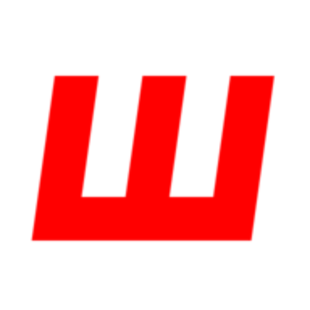
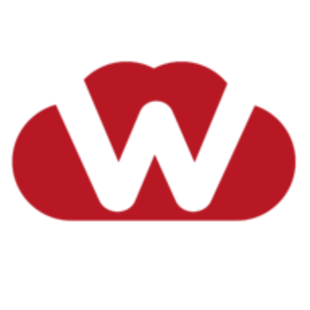
Nueva imágen

diff --git a/public/css/css.css b/public/css/css.css
@@ -5,21 +5,19 @@ body{
 h1, h2,h3,h4,h5,h6{
     font-weight: 300 !important;
 }
-.azul{
-    background-color: #3f51b5;
+.wetrust{
+    background-color: rgb(183,25,35);
+    color:white;
 }
-nav.azul{
+.wetrust a {
+    color:white;
+}
+nav.sombra{
     box-shadow: 0 3px 5px -1px rgba(0,0,0,.2),0 6px 10px 0 rgba(0,0,0,.14),0 1px 18px 0 rgba(0,0,0,.12);
-}
-.multicolor{
-    background-color: #3f51b5;
-    padding-top: 2rem;
-    padding-bottom: 2rem;
 }
 .minimo{
     min-height:79vh;
 }
-
 footer{
     background-color: #303030;
     color: gray;

diff --git a/application/view/_templates/header.php b/application/view/_templates/header.php
@@ -1,14 +1,16 @@
 <!doctype html>
 <html lang="es">
 <head>
-    <title>Simple | <?= $this->title; ?></title>
     <meta charset="utf-8">
+    <title>Simple | <?= $this->title; ?></title>
     <meta name="viewport" content="width=device-width, initial-scale=1, shrink-to-fit=no">
     <link href="https://fonts.googleapis.com/css?family=Roboto:300,400,500,700|Roboto+Mono:300&amp;display=swap" rel="stylesheet">
     <link rel="stylesheet" href="https://stackpath.bootstrapcdn.com/bootstrap/4.5.0/css/bootstrap.min.css" integrity="sha384-9aIt2nRpC12Uk9gS9baDl411NQApFmC26EwAOH8WgZl5MYYxFfc+NcPb1dKGj7Sk" crossorigin="anonymous">
-    <link href="https://fonts.googleapis.com/icon?family=Material+Icons&amp;display=block" rel="stylesheet">
     <base href="<?php echo Config::get('URL'); ?>" target="_self">
     <link rel="stylesheet" href="css/css.css">
+    <script src="https://code.jquery.com/jquery-3.5.1.slim.min.js" integrity="sha384-DfXdz2htPH0lsSSs5nCTpuj/zy4C+OGpamoFVy38MVBnE+IbbVYUew+OrCXaRkfj" crossorigin="anonymous"></script>
+    <script src="https://cdn.jsdelivr.net/npm/popper.js@1.16.0/dist/umd/popper.min.js" integrity="sha384-Q6E9RHvbIyZFJoft+2mJbHaEWldlvI9IOYy5n3zV9zzTtmI3UksdQRVvoxMfooAo" crossorigin="anonymous"></script>
+    <script src="https://stackpath.bootstrapcdn.com/bootstrap/4.5.0/js/bootstrap.min.js" integrity="sha384-OgVRvuATP1z7JjHLkuOU7Xw704+h835Lr+6QL9UvYjZE3Ipu6Tp75j7Bh/kR0JKI" crossorigin="anonymous"></script>
     <link rel="apple-touch-icon" sizes="57x57" href="images/apple-icon-57x57.png">
     <link rel="apple-touch-icon" sizes="60x60" href="images/apple-icon-60x60.png">
     <link rel="apple-touch-icon" sizes="72x72" href="images/apple-icon-72x72.png">
@@ -22,19 +24,26 @@
     <link rel="icon" type="image/png" sizes="32x32" href="images/favicon-32x32.png">
     <link rel="icon" type="image/png" sizes="96x96" href="images/favicon-96x96.png">
     <link rel="icon" type="image/png" sizes="16x16" href="images/favicon-16x16.png">
-    <link rel="manifest" href="/manifest.json">
-    <meta name="msapplication-TileColor" content="#ffffff">
+    <link rel="manifest" href="manifest.json">
+    <meta name="msapplication-TileColor" content="#b71923">
     <meta name="msapplication-TileImage" content="images/ms-icon-144x144.png">
-    <meta name="theme-color" content="#ffffff">
-    <script src="https://code.jquery.com/jquery-3.5.1.slim.min.js" integrity="sha384-DfXdz2htPH0lsSSs5nCTpuj/zy4C+OGpamoFVy38MVBnE+IbbVYUew+OrCXaRkfj" crossorigin="anonymous"></script>
-    <script src="https://cdn.jsdelivr.net/npm/popper.js@1.16.0/dist/umd/popper.min.js" integrity="sha384-Q6E9RHvbIyZFJoft+2mJbHaEWldlvI9IOYy5n3zV9zzTtmI3UksdQRVvoxMfooAo" crossorigin="anonymous"></script>
-    <script src="https://stackpath.bootstrapcdn.com/bootstrap/4.5.0/js/bootstrap.min.js" integrity="sha384-OgVRvuATP1z7JjHLkuOU7Xw704+h835Lr+6QL9UvYjZE3Ipu6Tp75j7Bh/kR0JKI" crossorigin="anonymous"></script>
+    <meta name="theme-color" content="#b71923">
+    <meta name="Description" content="Framework MCV de WeTrust para el desarrollo de plataformas web.">
+    <meta property="og:title" content="Simple | <?= $this->title; ?>">
+    <meta property="og:description" content="Framework MCV de WeTrust para el desarrollo de plataformas web.">
+    <meta property="og:url" content="<?php echo Config::get('URL'); ?>">
+    <meta property="og:locale" content="es_CL">
+    <meta property="og:image" content="<?php echo Config::get('URL'); ?>images/graph_logo.png">
+    <meta property="og:type" content="website">
+    <meta property="og:site_name" content="Simple | <?= $this->title; ?>">
 </head>
 <body>
     <!-- navbar -->
-    <nav class="navbar navbar-expand-lg navbar-dark azul fixed-top">
+    <nav class="navbar navbar-expand-lg navbar-light bg-light fixed-top sombra">
         <div class="container">
-            <a class="navbar-brand" href="<?php echo Config::get('URL'); ?>">Simple</a>
+            <a class="navbar-brand" href="<?php echo Config::get('URL'); ?>">
+                <img width="120" height="30" class="d-inline-block align-center" alt="" loading="lazy" class="img-fluid" src="images/logo.svg" alt="Logo WeTrust Technology">
+            </a>
             <button class="navbar-toggler" type="button" data-toggle="collapse" data-target="#navbarHome" aria-controls="navbarHome" aria-expanded="false" aria-label="Toggle navigation">
                 <span class="navbar-toggler-icon"></span>
             </button>
@@ -82,7 +91,7 @@
                 <?php } else { ?>
                     <ul class="navbar-nav">
                         <li class="nav-item <?php if (View::checkForActiveController($filename, "login/index")) { echo 'active'; } ?>">
-                            <a class="btn btn-outline-light my-2 my-sm-0" href="<?php echo Config::get('URL'); ?>login">Ingresar</a>
+                            <a class="btn btn-outline-danger my-2 my-sm-0" href="<?php echo Config::get('URL'); ?>login">Ingresar</a>
                         </li>
                     </ul>
                 <?php } ?>

diff --git a/application/view/user/editAvatar.php b/application/view/user/editAvatar.php
@@ -1,10 +1,10 @@
 <section>
-    <header class="multicolor text-white">
+    <header class="py-4 wetrust">
         <div class="container">
             <h1>Modificar avatar</h1>
         </div>
     </header>
-    <main class="multicolor minimo">
+    <main class="py-4 minimo">
         <div class="container">
             <?php $this->renderFeedbackMessages(); ?>
             <div class="d-flex justify-content-center">
@@ -13,15 +13,16 @@
                         <h5 class="card-title">Subir nuevo avatar</h5>
                         <form action="<?php echo Config::get('URL'); ?>user/uploadAvatar_action" method="post" enctype="multipart/form-data">
                             <div class="form-group">
-                                <label for="exampleFormControlFile1">Elija una imágen jpg (Max. 5MB):</label>
+                                <label for="exampleFormControlFile1" class="mb-4">Elija una imágen jpg (Max. 5MB):</label>
                                 <input type="file" class="form-control-file" name="avatar_file" required >
                                 <!-- max size 5 MB (as many people directly upload high res pictures from their digital cameras) -->
                                 <input type="hidden" name="MAX_FILE_SIZE" value="5000000" />
-                                <button type="submit" class="btn btn-primary shadow-lg">Subir imagen</button>
+                                <button type="submit" class="btn btn-outline-danger my-4 shadow-lg mx-auto d-block">Subir imagen</button>
                             </div>
                         </form>
+                        <hr>
                         <h5 class="card-title">Eliminar avatar</h5>
-                        <a href="<?php echo Config::get('URL'); ?>user/deleteAvatar_action" class="btn btn-primary  shadow-lg">Eliminar actual avatar</a>
+                        <a href="<?php echo Config::get('URL'); ?>user/deleteAvatar_action" class="btn btn-outline-danger my-4 shadow-lg mx-auto d-block">Eliminar actual avatar</a>
                     </div>
                 </div>
             </div>

diff --git a/application/view/user/changeUserRole.php b/application/view/user/changeUserRole.php
@@ -1,19 +1,19 @@
 <section>
-    <header class="multicolor text-white">
+    <header class="py-4 wetrust">
         <div class="container">
             <h1>Tipo de cuenta</h1>
         </div>
     </header>
-    <main class="multicolor minimo text-white">
+    <main class="py-4 minimo">
         <div class="container">
             <?php $this->renderFeedbackMessages(); ?>
             <h2>Actualmente tu cuenta es de tipo: <?php echo Session::get('user_account_type'); ?></h2>
             <!-- basic implementation for two account types: type 1 and type 2 -->
             <form action="<?php echo Config::get('URL'); ?>user/changeUserRole_action" method="post">
                 <?php if (Session::get('user_account_type') == 1) { ?>
-                    <button type="submit" name="user_account_upgrade" value="2" class="btn btn-primary shadow-lg">Subir nivel</button>
+                    <button type="submit" name="user_account_upgrade" value="2" class="btn btn-outline-danger shadow-lg">Subir nivel</button>
                 <?php } else if (Session::get('user_account_type') == 2) { ?>
-                    <button type="submit" name="user_account_downgrade" value="1" class="btn btn-primary shadow-lg">Bajar nivel</button>
+                    <button type="submit" name="user_account_downgrade" value="1" class="btn btn-outline-danger shadow-lg">Bajar nivel</button>
                 <?php } ?>
             </form>
         </div>

diff --git a/application/view/login/requestPasswordReset.php b/application/view/login/requestPasswordReset.php
@@ -1,8 +1,8 @@
-<main class="multicolor minimo">
+<main class="py-4 minimo">
     <div class="container">
         <?php $this->renderFeedbackMessages(); ?>
         <div class="d-flex p-2 justify-content-center">
-            <div class="card shadow mb-3">
+            <div class="card wetrust rounded shadow">
                 <div class="card-body">
                     <h5 class="card-title text-center">Solicitar contraseña</h5>
                     <form action="<?php echo Config::get('URL'); ?>login/requestPasswordReset_action" method="post">
@@ -16,7 +16,7 @@
                             <input class="form-control" type="text" name="captcha" required />
                             <a href="#" onclick="document.getElementById('captcha').src = '<?php echo Config::get('URL'); ?>register/showCaptcha?' + Math.random(); return false">Recargar Captcha</a>
                         </div>
-                        <input type="submit" class="btn btn-primary shadow-lg" value="Solicitar contraseña"/>
+                        <input type="submit" class="btn btn-outline-light my-4 shadow-lg mx-auto d-block" value="Solicitar contraseña"/>
                     </form>
                 </div>
             </div>

diff --git a/application/view/login/index.php b/application/view/login/index.php
@@ -1,8 +1,8 @@
-<main class="multicolor minimo">
+<main class="py-4 minimo">
     <div class="container">
         <?php $this->renderFeedbackMessages(); ?>
         <div class="d-flex p-2 justify-content-center">
-            <div class="card">
+            <div class="card wetrust rounded shadow">
                 <div class="card-body">
                     <h5 class="card-title text-center">Ingresar</h5>
                     <form action="<?php echo Config::get('URL'); ?>login/login" method="post">
@@ -24,7 +24,7 @@
                             <input type="hidden" name="redirect" value="<?php echo $this->encodeHTML($this->redirect); ?>" />
                         <?php } ?>
                         <input type="hidden" name="csrf_token" value="<?= Csrf::makeToken(); ?>" />
-                        <input type="submit" class="btn btn-primary my-2 shadow-lg" value="Ingresar"/>
+                        <input type="submit" class="btn btn-outline-light my-4 shadow-lg mx-auto d-block" value="Ingresar"/>
                     </form>
                     <a href="<?php echo Config::get('URL'); ?>login/requestPasswordReset">¿Olvido contraseña?</a>
                 </div>

diff --git a/application/view/register/index.php b/application/view/register/index.php
@@ -1,8 +1,8 @@
-<main class="multicolor minimo">
+<main class="py-4 minimo">
     <div class="container">
         <?php $this->renderFeedbackMessages(); ?>
         <div class="d-flex p-2 justify-content-center">
-            <div class="card shadow mb-3">
+            <div class="card wetrust rounded shadow">
                 <div class="card-body">
                     <h5 class="card-title text-center">Nueva cuenta</h5>
                     <form action="<?php echo Config::get('URL'); ?>register/register_action" method="post">
@@ -36,7 +36,7 @@
                             <input class="form-control" type="text" name="captcha" required />
                             <a href="#" onclick="document.getElementById('captcha').src = '<?php echo Config::get('URL'); ?>register/showCaptcha?' + Math.random(); return false">Recargar Captcha</a>
                         </div>
-                        <input type="submit" class="btn btn-primary my-2" value="registrar"/>
+                        <input type="submit" class="btn btn-outline-light my-4 shadow-lg mx-auto d-block" value="registrar"/>
                     </form>
                 </div>
             </div>

diff --git a/application/view/login/resetPassword.php b/application/view/login/resetPassword.php
@@ -1,8 +1,8 @@
-<main class="multicolor minimo">
+<main class="py-4 minimo">
     <div class="container">
         <?php $this->renderFeedbackMessages(); ?>
         <div class="d-flex p-2 justify-content-center">
-            <div class="card shadow mb-3">
+            <div class="card wetrust rounded shadow">
                 <div class="card-body">
                     <h5 class="card-title text-center">Nueva contraseña</h5>
                     <form action="<?php echo Config::get('URL'); ?>login/setNewPassword" method="post">
@@ -16,7 +16,7 @@
                             <label>Repetir contraseña</label>
                             <input class="form-control" type="password" name="user_password_repeat" pattern=".{6,}" required />
                         </div>
-                        <input type="submit" class="btn btn-primary my-2" value="Guardar"/>
+                        <input type="submit" class="btn btn-outline-light my-4 shadow-lg mx-auto d-block" value="Guardar"/>
                     </form>
                     <a href="<?php echo Config::get('URL'); ?>login">Volver</a>
                 </div>

diff --git a/application/view/user/editUserEmail.php b/application/view/user/editUserEmail.php
@@ -1,10 +1,10 @@
 <section>
-    <header class="multicolor text-white">
+    <header class="py-4 wetrust">
         <div class="container">
             <h1>Cambiar E-Mail</h1>
         </div>
     </header>
-    <main class="multicolor minimo">
+    <main class="py-4 minimo">
         <div class="container">
             <?php $this->renderFeedbackMessages(); ?>
             <div class="d-flex justify-content-center">
@@ -16,7 +16,7 @@
                                 <input type="email" class="form-control" name="user_email" aria-describedby="emailHelp" placeholder="email" value="<?= $this->user_email; ?>" required>
                                 <small id="emailHelp" class="form-text text-muted">Nunca compartimos su E-Mail.</small>
                             </div>
-                            <button type="submit" class="btn btn-primary">Guardar</button>
+                            <button type="submit" class="btn btn-outline-danger my-4 shadow-lg mx-auto d-block">Guardar</button>
                         </form>
                     </div>
                 </div>

diff --git a/application/view/user/changePassword.php b/application/view/user/changePassword.php
@@ -1,10 +1,10 @@
 <section>
-    <header class="multicolor text-white">
+    <header class="py-4 wetrust">
         <div class="container">
             <h1>Cambiar contraseña</h1>
         </div>
     </header>
-    <main class="multicolor minimo">
+    <main class="py-4 minimo">
         <div class="container py-3">
             <?php $this->renderFeedbackMessages(); ?>
             <div class="d-flex justify-content-center">
@@ -23,7 +23,7 @@
                                 <label>Repita la nueva clave:</label>
                                 <input type="password" class="form-control" name='user_password_repeat' pattern=".{6,}" required autocomplete="off">
                             </div>
-                            <button type="submit" name="submit_new_password" class="btn btn-primary shadow-lg">Guardar</button>
+                            <button type="submit" name="submit_new_password" class="btn btn-outline-danger my-4 shadow-lg mx-auto d-block">Guardar</button>
                         </form>
                     </div>
                 </div>

diff --git a/application/view/user/editUsername.php b/application/view/user/editUsername.php
@@ -1,10 +1,10 @@
 <section>
-    <header class="multicolor text-white">
+    <header class="py-4 wetrust">
         <div class="container">
             <h1>Cambiar nombre de usuario</h1>
         </div>
     </header>
-    <main class="multicolor minimo">
+    <main class="py-4 minimo">
         <div class="container">
             <?php $this->renderFeedbackMessages(); ?>
             <div class="d-flex justify-content-center">
@@ -17,7 +17,7 @@
                             </div>
                             <!-- set CSRF token at the end of the form -->
                             <input type="hidden" name="csrf_token" value="<?= Csrf::makeToken(); ?>" />
-                            <button type="submit" class="btn btn-primary shadow-lg">Guardar</button>
+                            <button type="submit" class="btn btn-outline-danger my-4 shadow-lg mx-auto d-block">Guardar</button>
                         </form>
                     </div>
                 </div>

diff --git a/application/view/note/edit.php b/application/view/note/edit.php
@@ -1,4 +1,4 @@
-<header class="multicolor text-white">
+<header class="py-4 wetrust">
     <div class="container">
         <h1>Modificar nota</h1>
     </div>
@@ -17,7 +17,7 @@
                         <label>Cambiar texto de nota:</label>
                         <input type="text" class="form-control" name="note_text" value="<?php echo htmlentities($this->note->note_text); ?>">
                     </div>
-                    <button type="submit" class="btn btn-primary shadow-lg">Modificar</button>
+                    <button type="submit" class="btn btn-outline-danger shadow-lg">Modificar</button>
                 </form>
                 <?php } else { ?>
                 <div class="alert alert-danger" role="alert">Esta nota no existe.</div>
